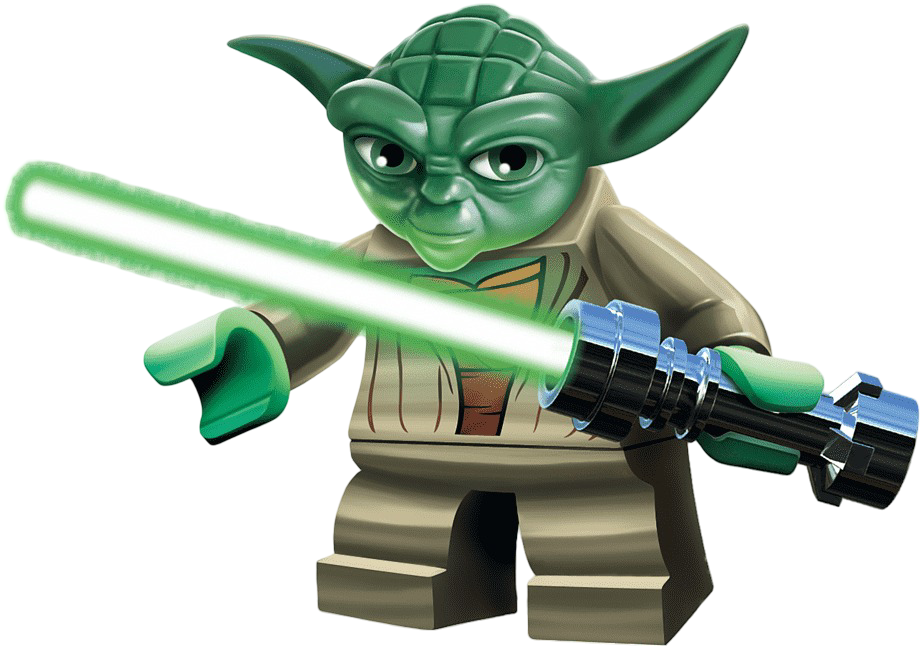
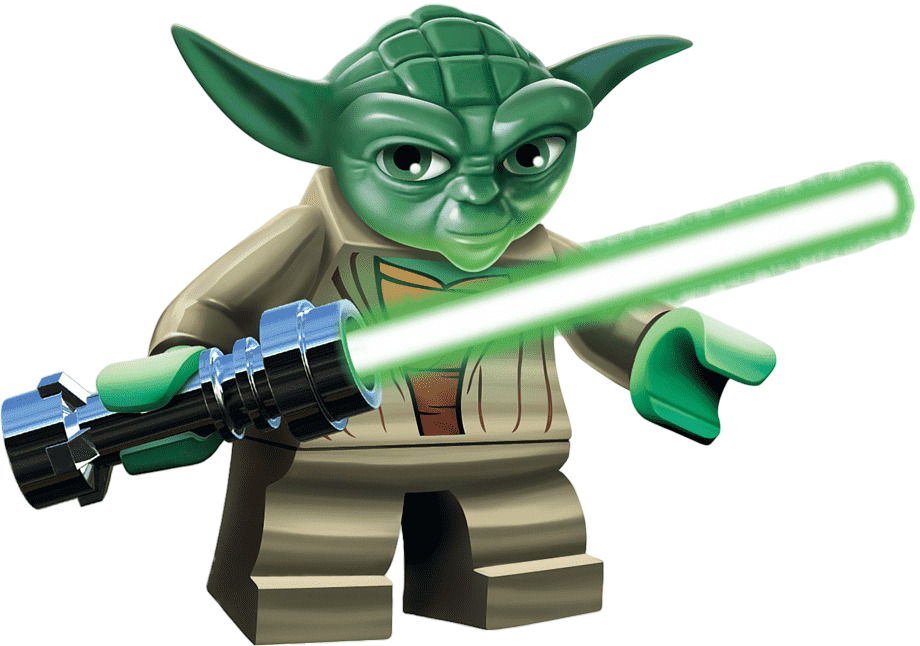
fix: :bug: Corrected bugs
Bug that makes more characters show in the panels

by@Andres

diff --git a/main1.js b/main1.js
@@ -122,7 +122,7 @@ if (document.body.classList.contains("pagina-planetas")) {
 
     /*mapa de planetas*/
     if (document.body.classList.contains("pagina-planetas")) {
-        const urlPlanetas = "https://swapi.dev/api/planets";
+        const urlPlanetas = "https://swapi.py4e.com/api/planets";
         const opciones = { method: "GET" };
         const lista = fetch(urlPlanetas, opciones)
             .then((respuesta) => {
@@ -175,11 +175,11 @@ if (document.body.classList.contains("pagina-planetas")) {
                 let contenidoPlaneta = document.createElement("div");
                 contenidoPlaneta.id = "planetaInfo";
                 contenidoPlaneta.innerHTML = `
-                <h1>${listaPlanetas[id].name}</h1>
-                <h2>Temperatura: ${listaPlanetas[id].climate}</h2>
-                <h2>Gravedad: ${listaPlanetas[id].gravity}</h2>
-                <h2>Terreno: ${listaPlanetas[id].terrain}</h2>
-                <h2>Población: ${listaPlanetas[id].population}</h2>
+                <h1 style="color:white">${listaPlanetas[id].name}</h1>
+                <h2><span style="color:white">Temperatura:</span> ${listaPlanetas[id].climate}</h2>
+                <h2><span style="color:white">Gravedad:</span> ${listaPlanetas[id].gravity}</h2>
+                <h2><span style="color:white">Terreno:</span> ${listaPlanetas[id].terrain}</h2>
+                <h2><span style="color:white">Población:</span> ${listaPlanetas[id].population}</h2>
               `;
                 contenidoPlaneta.classList.add("contenidoPlanetas");
                 contenidoPlaneta.style.position = "absolute";
@@ -201,97 +201,207 @@ if (document.body.classList.contains("pagina-planetas")) {
 
 
 }
-
-
-/*CHARACTER PAGE */
-
 if (document.body.classList.contains("pagina-personajes")) {
     let listaHumanos = [];
     let listaDroides = [];
     let listaYodass = [];
     let listaWookiess = [];
-    const listaFotos = ["./assets/characters/1.png", "./assets/characters/2.png", "./assets/characters/3.png", "./assets/characters/4.png", "./assets/characters/1.png", "./assets/characters.html/1.png", "./assets/characters.html/1.png", "./assets/characters.html/1.png", "./assets/characters.html/1.png", "./assets/characters.html/1.png", "./assets/characters.html/1.png", "./assets/characters.html/1.png", "./assets/characters.html/1.png", "./assets/characters.html/1.png", "./assets/characters.html/1.png", "./assets/characters.html/1.png", "./assets/characters.html/1.png",]
-    const urlPersonajes = "https://swapi.dev/api/people";
+    const listaFotos = [
+        "./assets/characters/1.png", "./assets/characters/2.png", "./assets/characters/3.png",
+        "./assets/characters/4.png", "./assets/characters/5.png", "./assets/characters/6.png",
+        "./assets/characters/7.png", "./assets/characters/8.png", "./assets/characters/9.png",
+        "./assets/characters/10.png", "./assets/characters/11.png","./assets/characters/12.png",
+        "./assets/characters/13.png","./assets/characters/14.png","./assets/characters/15.png","./assets/characters/16.png"];
+
+    const urlPersonajes = "https://swapi.py4e.com/api/people/";
     const opciones = { method: "GET" };
 
     fetch(urlPersonajes, opciones)
-        .then(respuesta => respuesta.ok ? respuesta.json() : Promise.reject("Error al cargar personajes"))
+        .then(res => res.ok ? res.json() : Promise.reject("Error al cargar personajes"))
         .then(datos => {
-            const peticionPersonajes = datos.results;
-            const segundaPeticionPersonajes = datos.next;
-            return fetch(segundaPeticionPersonajes, opciones)
-                .then(respuesta2 => respuesta2.ok ? respuesta2.json() : Promise.reject("Error en segunda petición"))
-                .then(datos2 => {
-                    const peticionPersonajes2 = datos2.results;
-                    const listaPersonajes = peticionPersonajes.concat(peticionPersonajes2);
-
-                    listaPersonajes.forEach(personaje => {
-                        if (Array.isArray(personaje.species) && personaje.species.length === 0) {
-
+            const primeraPagina = datos.results;
+            return fetch(datos.next, opciones)
+                .then(res2 => res2.ok ? res2.json() : Promise.reject("Error segunda página"))
+                .then(datos2 => primeraPagina.concat(datos2.results));
+        })
+        .then(listaPersonajes => {
+            listaPersonajes.forEach(personaje => {
+                if (personaje.species.length > 0) {
+                    switch (personaje.species[0]) {
+                        case "https://swapi.py4e.com/api/species/2/":
+                            listaDroides.push(personaje);
+                            break;
+                        case "https://swapi.py4e.com/api/species/3/":
+                            listaWookiess.push(personaje);
+                            break;
+                        case "https://swapi.py4e.com/api/species/6/":
+                            listaYodass.push(personaje);
+                            break;
+                        default:
                             listaHumanos.push(personaje);
-                        } else {
+                    }
+                } else {
+                    listaHumanos.push(personaje);
+                }
+            });
 
-                            const especieURL = personaje.species[0];
-                            switch (especieURL) {
-                                case "https://swapi.dev/api/species/2/":
-                                    listaDroides.push(personaje);
-                                    break;
-                                case "https://swapi.dev/api/species/3/":
-                                    listaWookiess.push(personaje);
-                                    break;
-                                case "https://swapi.dev/api/species/6/":
-                                    listaYodass.push(personaje);
-                                    break;
+            const botonHumanos = document.getElementById("boton-mostrar-humanos");
+            const humanos = document.getElementById("tarhumanos");
+            let humanoClick = false;
 
-                            }
-                        }
-                    });
+            botonHumanos.addEventListener("click", () => {
+                if (!humanoClick) {
+                    const nuevoDiv = document.createElement("div");
+                    nuevoDiv.classList.add("humanos");
+                    nuevoDiv.setAttribute("id", "personajesHumanosYa");
+                    humanos.classList.replace("tarhumanos", "tarhumanos-extendido")
+                    for (let i = 0; i < 11; i++) {
+                        const personaje = listaHumanos[i];
+                        const personajeDiv = document.createElement("div");
+                        personajeDiv.classList.add("tarjeta-charac");
 
-                });
+                        personajeDiv.innerHTML = `
+                            <h1>${personaje.name}</h1>
+                            <div class="imagenPerso">
+                                <img src="${listaFotos[i]}" alt="${personaje.name}">
+                            </div>
+                            <div class="descripcion">
+                                <h2>Altura: ${personaje.height}</h2>
+                                <h2>Peso: ${personaje.mass}</h2>
+                                <h2>Cumpleaños: ${personaje.birth_year}</h2>
+                                <h2>Género: ${personaje.gender}</h2>
+                            </div>
+                        `;
+                        nuevoDiv.appendChild(personajeDiv);
+                    }
+
+                    humanos.appendChild(nuevoDiv);
+                    humanoClick = true;
+                } else {
+                    humanos.classList.replace("tarhumanos-extendido", "tarhumanos")
+                    document.getElementById("personajesHumanosYa").remove();
+                    humanoClick = false;
+                }
+            });
         })
         .catch(error => console.error(error));
-    const botonHumanos = document.getElementById("boton-mostrar-humanos");
-    const contenedorHumanos = document.getElementById("humanos-contenedor");
-    const humanos = document.getElementById("tarhumanos")
-    const tarjetaHuman = document.getElementById("personajesHumanos")
-    let humanoClick = false
-    botonHumanos.addEventListener("click", () => {
-        if (!humanoClick) {
-const nuevoDiv = document.createElement("div");nuevoDiv.classList.add("humanos")
-            for (let i = 0; i < 11; i++) {
-                
-                
-                nuevoDiv.innerHTML += `<div class="tarjeta-charac">
-                <h1>${listaHumanos[i].name}</h1>
+
+
+
+
+const botonHumanos = document.getElementById("boton-mostrar-humanos");
+const botonDroid = document.getElementById("boton-mostrar-droid");
+const botonYoda = document.getElementById("boton-mostrar-yoda");
+const botonWookie = document.getElementById("boton-mostrar-wookie");
+
+const humanos = document.getElementById("tarhumanos");
+const droides = document.getElementById("tardroid");
+const yodas = document.getElementById("taryoda");
+const wookies = document.getElementById("tarwookie");
+
+let humanoClick = false;
+let droidClick = false;
+let yodaClick = false;
+let wookieClick = false;
+
+botonDroid.addEventListener("click", () => {
+    if (!droidClick) {
+        console.log(listaDroides)
+        const nuevoDiv = document.createElement("div");
+        nuevoDiv.classList.add("droid");
+        nuevoDiv.setAttribute("id", "personajesDroidesYa");
+        droides.classList.replace("tardroid", "tardroid-extendido");
+
+        for (let i = 0; i < 3; i++) {
+            const personaje = listaDroides[i];
+            const personajeDiv = document.createElement("div");
+            personajeDiv.classList.add("tarjeta-charac");
+
+            personajeDiv.innerHTML = `
+                <h1>${listaDroides[i].name}</h1>
                 <div class="imagenPerso">
-                <img src=${listaFotos[i]}>
+                    <img src="${listaFotos[i+11]}">
                 </div>
                 <div class="descripcion">
-                <h2>Altura: ${listaHumanos[i].height}</h2>
-                <h2>Peso: ${listaHumanos[i].mass}</h2>
-                <h2>Cumpleaños: ${listaHumanos[i].birth_year}</h2>
-                <h2>Genero: ${listaHumanos[i].gender}</h2>
+                    <h2>Altura: ${personaje.height}</h2>
+                    <h2>Peso: ${personaje.mass}</h2>
+                    <h2>Cumpleaños: ${personaje.birth_year}</h2>
+                    <h2>Género: ${personaje.gender}</h2>
                 </div>
-                </div>`;
-                humanos.appendChild(nuevoDiv);
-            }
-        } else {
-            tarjetaHuman.classList.replace("humanos", "oculto");
-            humanos.classList.replace("tarhumanos-extendido", "tarhumanos");
-            humanoClick = false;
+            `;
+            nuevoDiv.appendChild(personajeDiv);
         }
-    })
+        droides.appendChild(nuevoDiv);
+        droidClick = true;
+    } else {
+        droides.classList.replace("tardroid-extendido", "tardroid");
+        document.getElementById("personajesDroidesYa").remove();
+        droidClick = false;
+    }
+});
+botonYoda.addEventListener("click", () => {
+    if (!yodaClick) {
+        const nuevoDiv = document.createElement("div");
+        nuevoDiv.classList.add("yoda");
+        nuevoDiv.setAttribute("id", "personajesYodaYa");
+        yodas.classList.replace("taryoda", "taryoda-extendido");
 
+        const personaje = listaYodass[0];  // primer y único personaje
+        const personajeDiv = document.createElement("div");
+        personajeDiv.classList.add("tarjeta-charac");
 
+        personajeDiv.innerHTML = `
+            <h1>${personaje.name}</h1>
+            <div class="imagenPerso">
+                <img src="${listaFotos[14]}" alt="${personaje.name}">
+            </div>
+            <div class="descripcion">
+                <h2>Altura: ${personaje.height}</h2>
+                <h2>Peso: ${personaje.mass}</h2>
+                <h2>Cumpleaños: ${personaje.birth_year}</h2>
+                <h2>Género: ${personaje.gender}</h2>
+            </div>
+        `;
+        nuevoDiv.appendChild(personajeDiv);
+        yodas.appendChild(nuevoDiv);
+        yodaClick = true;
+    } else {
+        yodas.classList.replace("taryoda-extendido", "taryoda");
+        document.getElementById("personajesYodaYa").remove();
+        yodaClick = false;
+    }
+});
+botonWookie.addEventListener("click", () => {
+    if (!wookieClick) {
+        const nuevoDiv = document.createElement("div");
+        nuevoDiv.classList.add("wookie");
+        nuevoDiv.setAttribute("id", "personajesWookieYa");
+        wookies.classList.replace("tarwookie", "tarwookie-extendido");
 
+        const personaje = listaWookiess[0]; 
+        const personajeDiv = document.createElement("div");
+        personajeDiv.classList.add("tarjeta-charac");
 
-    const botonDroid = document.getElementById("boton-mostrar-droid");
-    const botonYoda = document.getElementById("boton-mostrar-yoda");
-    const botonWookie = document.getElementById("boton-mostrar-wookie");
-
-
-
+        personajeDiv.innerHTML = `
+            <h1>${personaje.name}</h1>
+            <div class="imagenPerso">
+                <img src="${listaFotos[15]}" alt="${personaje.name}">
+            </div>
+            <div class="descripcion">
+                <h2>Altura: ${personaje.height}</h2>
+                <h2>Peso: ${personaje.mass}</h2>
+                <h2>Cumpleaños: ${personaje.birth_year}</h2>
+                <h2>Género: ${personaje.gender}</h2>
+            </div>
+        `;
+        nuevoDiv.appendChild(personajeDiv);
+        wookies.appendChild(nuevoDiv);
+        wookieClick = true;
+    } else {
+        wookies.classList.replace("tarwookie-extendido", "tarwookie");
+        document.getElementById("personajesWookieYa").remove();
+        wookieClick = false;
+    }
+});
 
 }
-
-

diff --git a/style1.css b/style1.css
@@ -193,15 +193,22 @@ body {
 .yoda,
 .wookie {
   display: flex;
+  flex-direction: row;
+  flex-wrap: wrap;
   width: 90%;
-  gap: 3vh;
+  box-sizing: border-box;
+  gap: 2vh;
+ align-items: stretch;
+ justify-content: center;
 
-  align-items: center;
-  justify-content: center;
-  margin-bottom: 5vh;
-  flex-wrap: wrap; 
-   box-sizing: border-box;
 }
+
+.tarjeta-charac{overflow:hidden;display: flex;flex-direction: column;width: 30%;border: 1px solid black;padding: 2vh;box-sizing: content-box;object-fit: cover;background-color: #303030;border-radius: 10%;align-items: center;}
+.imagenPerso{height: 30vh;overflow: hidden;position: relative;}
+.descripcion{width: 100%;}
+.imagenPerso img{max-height: 100%;object-fit: contain;}
+
+
 
 .texto-boton {
   display: flex;
@@ -217,6 +224,7 @@ body {
   z-index: 10;
 }
 
+
 #bar1 {
   box-shadow: 0px 8px 5px red, 0px -8px 5px red
 }
@@ -228,6 +236,7 @@ body {
 #bar3 {
   box-shadow: 0px 8px 5px rgb(0, 119, 255), 0px -8px 5px rgb(0, 102, 255)
 }
+
 
 
 
@@ -580,7 +589,7 @@ body {
   display: flex;
   flex-direction: column;
   z-index: 10;
-  color: white;
+  color: rgb(192, 192, 192);
   background-color: rgba(128, 128, 128, 0.521);
   border: 1px white solid;
   padding: 2vh;
@@ -589,6 +598,9 @@ body {
   word-wrap: break-word;
   overflow-wrap: break-word;
   animation: fadeIn 0.3s ease-out;
+  box-sizing: border-box;
+  max-width: 30%;
+
 }
 
 @keyframes fadeIn {
@@ -604,12 +616,12 @@ body {
 }
 
 .contenidoPlanetas h1 {
-  font-size: 1.5em;
+  font-size: 1.5vw;
   width: 100%;
 }
 
 .contenidoPlanetas h2 {
-  font-size: 0.8em;
+  font-size: 0.8vw;
   width: 100%;
   margin: 0
 }

diff --git a/characters.html b/characters.html
@@ -36,7 +36,7 @@
         <div class="barra-blanca-personaje" id="bar2"></div>
         <section class="tarjeta taryoda" id="taryoda">
             <div class="tarjeta-personaje" id="yoda-contenedor">
-                <img src="./assets/characters/yoda.png" id="perso5">
+                <img src="./assets/characters/yodaa.png" id="perso5">
                 <h1>Yoda's</h1>
                 <img src="./assets/characters/Yoda_2013-removebg-preview.png" id="perso6">
                 <label ><input id="boton-mostrar-yoda" class="slider" type="checkbox"><div class="switch"><div class="suns"></div><div class="moons"><div class="star star-1"></div><div class="star star-2"></div><div class="star star-3"></div><div class="star star-4"></div><div class="star star-5"></div><div class="first-moon"></div></div><div class="sand"></div><div class="bb8"><div class="antennas"><div class="antenna short"></div><div class="antenna long"></div></div><div class="head"><div class="stripe one"></div><div class="stripe two"></div><div class="eyes"><div class="eye two"></div></div><div class="stripe detail"><div class="detail zero"></div><div class="detail zero"></div><div class="detail one"></div><div class="detail two"></div><div class="detail three"></div><div class="detail four"></div><div class="detail five"></div><div class="detail five"></div></div><div class="stripe three"></div></div><div class="ball"><div class="lines one"></div><div class="lines two"></div><div class="ring one"></div><div class="ring two"></div><div class="ring three"></div></div><div class="shadow"></div></div></div>
